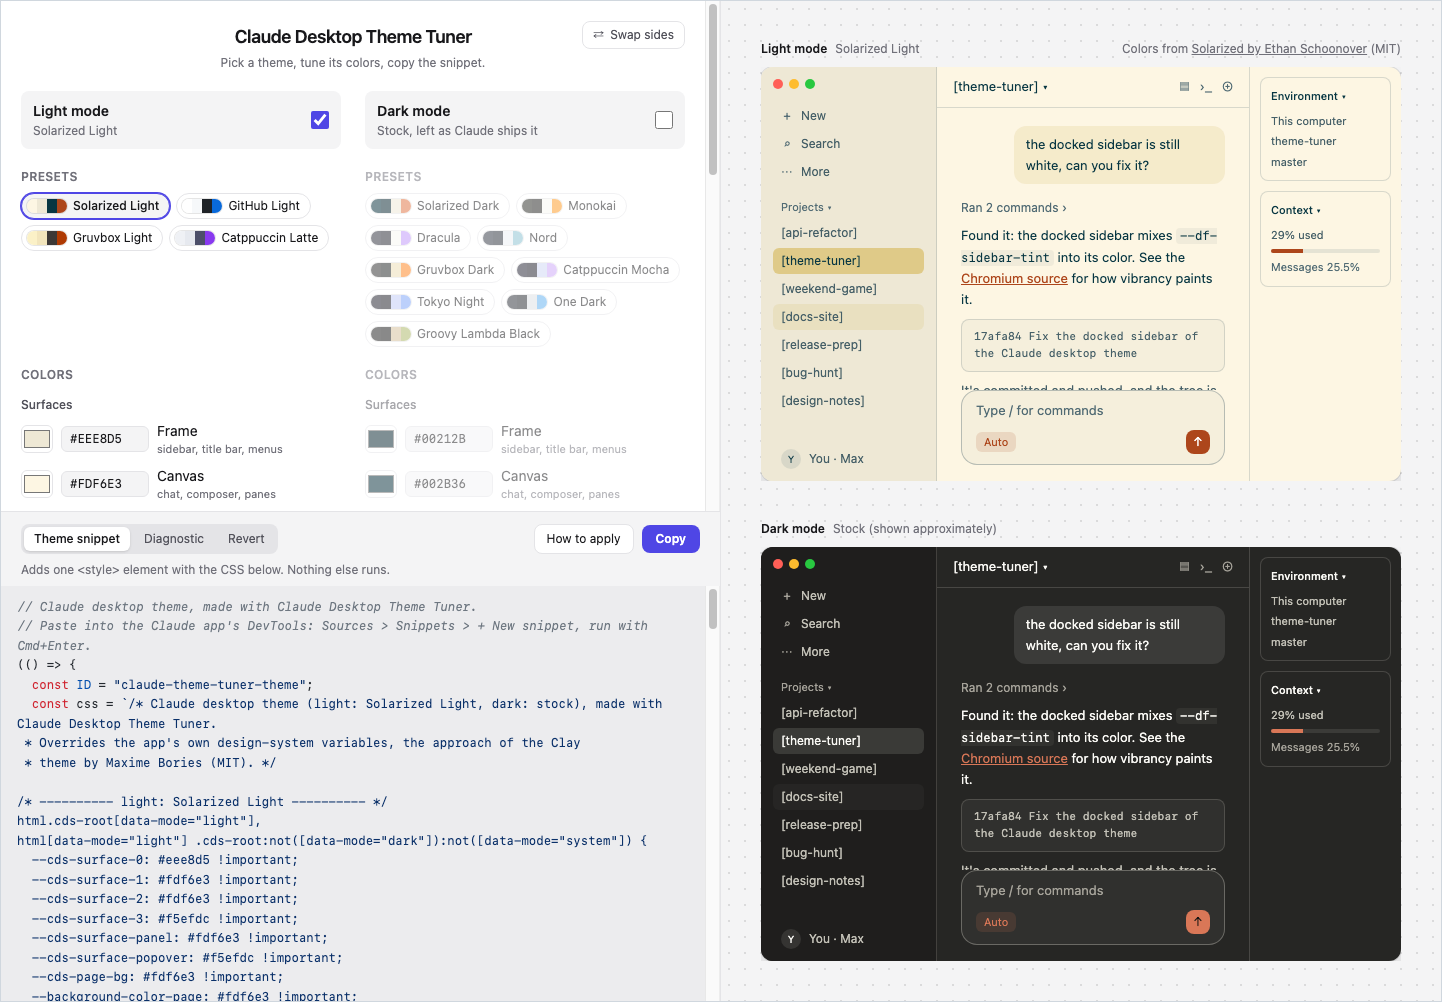
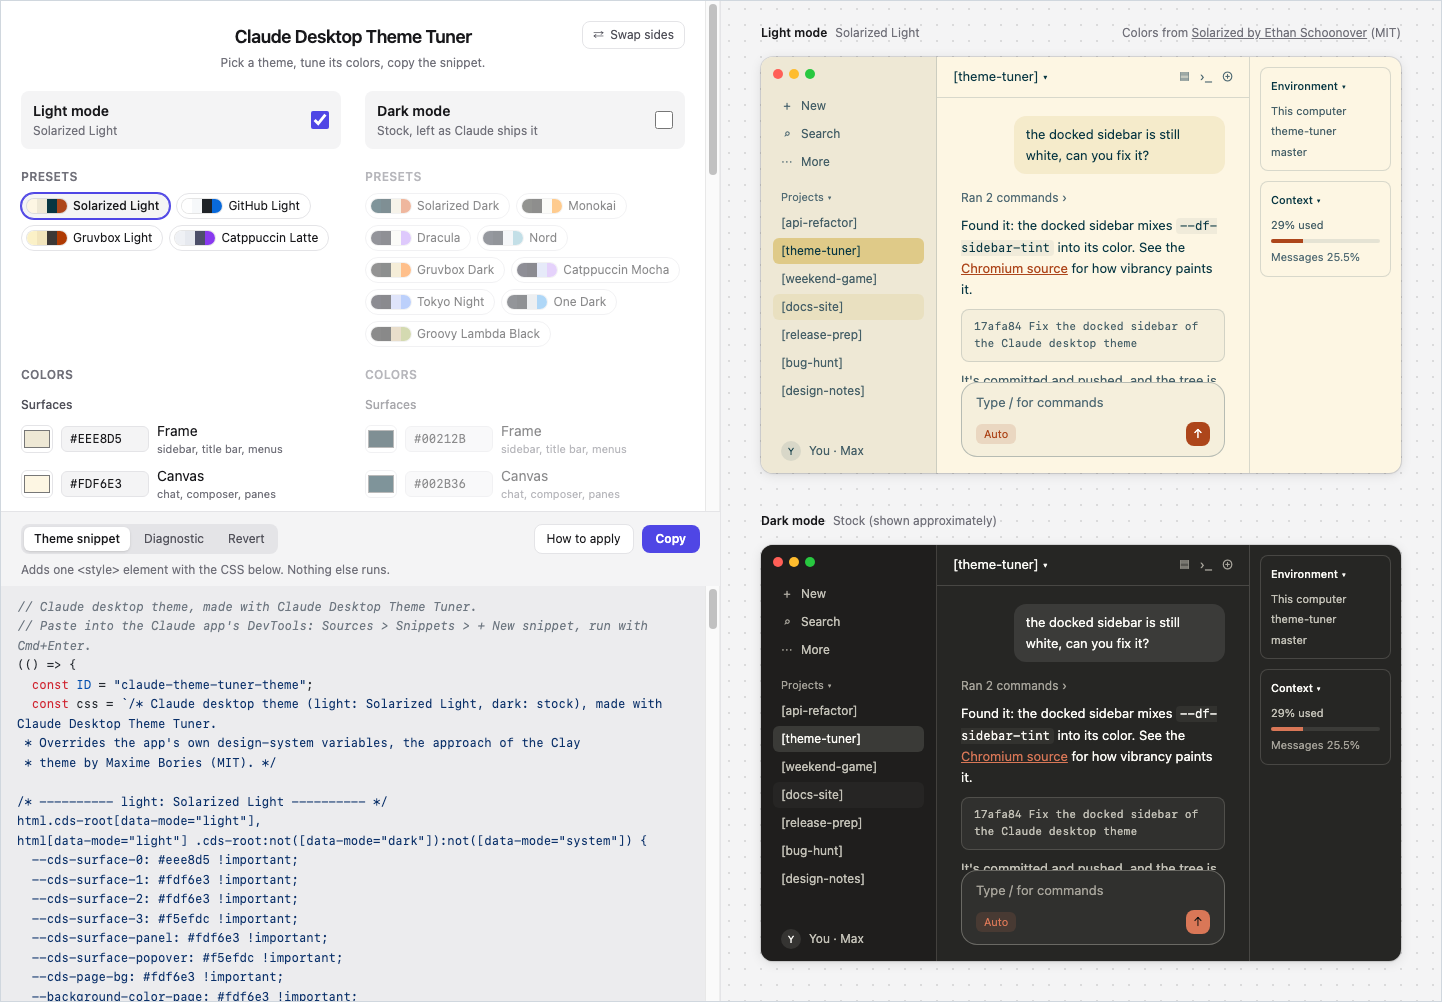
Give the preview mocks a soft drop shadow
The mock's shadow was clipped by its sideways-scrolling frame. The frame
now pads the mock so a soft shadow shows on every side, with the caption
inset to match and the pane's padding reduced to keep the same spacing.

diff --git a/src/app.tsx b/src/app.tsx
@@ -530,8 +530,8 @@ const previewCardView = (model: Model, mode: Mode, label: string) => {
   const palette = slot.enabled ? slot.theme.palette : STOCK[mode]
   return (
     <div key={mode} className='flex min-h-0 w-full flex-col items-center'>
-      <div className='flex h-full min-h-0 w-full flex-col gap-[10px]'>
-        <div className='flex items-center justify-between gap-[12px] text-xs'>
+      <div className='flex h-full min-h-0 w-full flex-col'>
+        <div className='flex items-center justify-between gap-[12px] px-[16px] text-xs'>
           <span className='flex min-w-0 items-center gap-[8px]'>
             <span className='shrink-0 font-semibold text-ui-ink'>{label}</span>
             <span className='truncate text-ui-ink-faint'>
@@ -544,8 +544,10 @@ const previewCardView = (model: Model, mode: Mode, label: string) => {
             </span>
           ) : null}
         </div>
-        {/* The mock keeps its desktop proportions; narrow screens scroll it sideways */}
-        <div className='flex min-h-0 w-full flex-1 overflow-x-auto'>
+        {/* The mock keeps its desktop proportions; narrow screens scroll it
+            sideways. The padding leaves room for its shadow, which the
+            scrolling box would clip, and the caption above has the same inset */}
+        <div className='flex min-h-0 w-full flex-1 overflow-x-auto p-[16px]'>
           {claudeMockView(palette)}
         </div>
       </div>
@@ -557,7 +559,7 @@ const previewCardView = (model: Model, mode: Mode, label: string) => {
 // screens, stacked at a fixed height on narrow ones. The same space on every
 // side and between the two, so the mocks sit evenly in the pane
 const previewView = (model: Model) => (
-  <section className='preview-dots flex flex-col gap-[20px] p-[16px] lg:grid lg:min-h-0 lg:grid-rows-2 lg:gap-[40px] lg:p-[40px]'>
+  <section className='preview-dots flex flex-col gap-[8px] p-[8px] lg:grid lg:min-h-0 lg:grid-rows-2 lg:gap-[24px] lg:p-[24px]'>
     {MODES.map(({ mode, label }) => previewCardView(model, mode, label))}
   </section>
 )

diff --git a/src/preview/claude-mock.tsx b/src/preview/claude-mock.tsx
@@ -198,7 +198,7 @@ const sidePanelView = () => (
 
 export const claudeMockView = (palette: Palette) => (
   <div
-    className='flex h-[28rem] w-full min-w-[38rem] shrink-0 overflow-hidden lg:h-full rounded-xl shadow-2xl ring-1 ring-black/10 bg-[var(--cds-surface-1)]'
+    className='flex h-[28rem] w-full min-w-[38rem] shrink-0 overflow-hidden lg:h-full rounded-xl shadow-[0_2px_12px_rgba(0,0,0,0.10),0_1px_3px_rgba(0,0,0,0.06)] ring-1 ring-black/10 bg-[var(--cds-surface-1)]'
     style={tokenStyle(palette)}
   >
     {sidebarView()}
